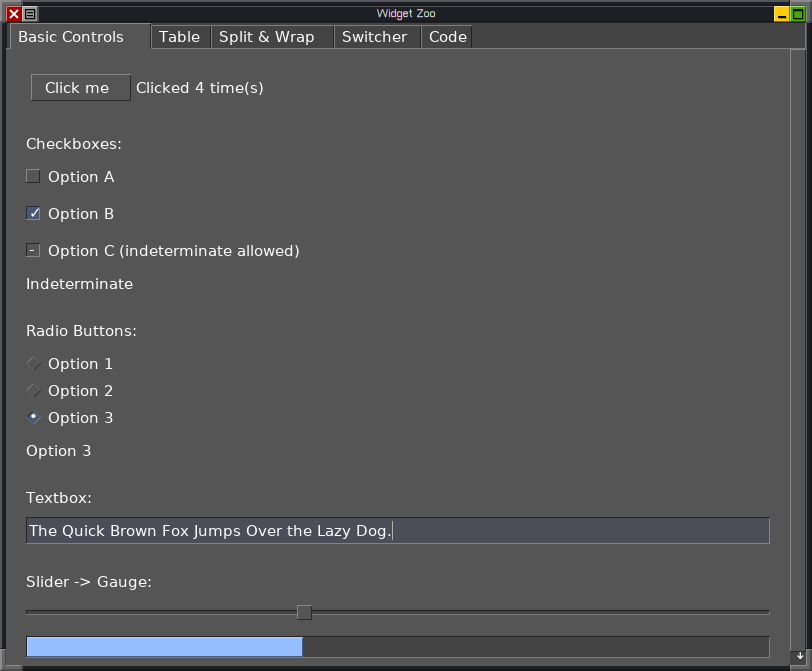
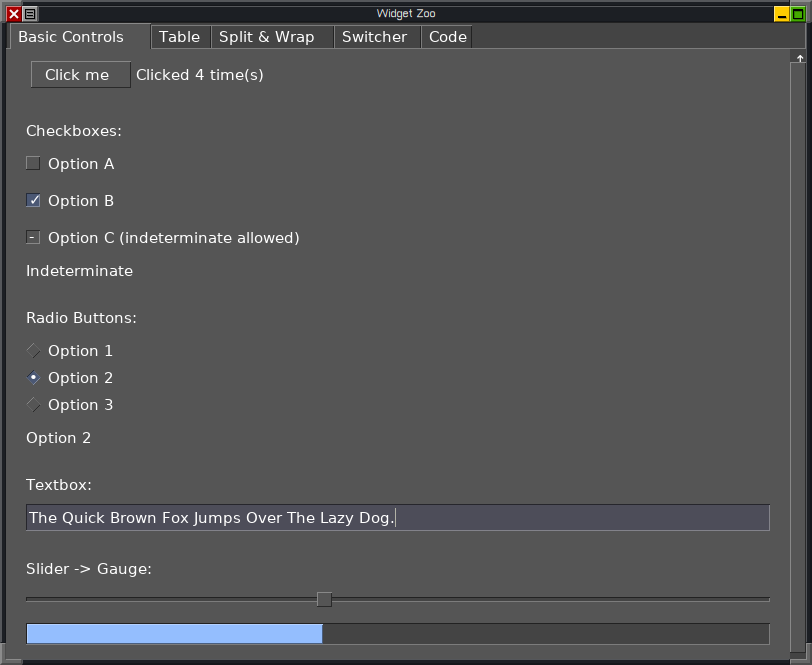
Fixed radiobutton drawing.

diff --git a/hermes/ui_draw.c b/hermes/ui_draw.c
@@ -366,15 +366,15 @@ UIDrawControlDefault(
             /* Background of radio control */
             UIDrawTriangle(
                     painter, 
-                    boxBounds.l, rad_mid_Y, 
-                    rad_mid_X,   boxBounds.t, 
+                    boxBounds.l,     rad_mid_Y, 
+                    rad_mid_X, boxBounds.t, 
                     boxBounds.r, rad_mid_Y, 
                     color
                 );
             UIDrawTriangle(
                     painter, 
-                    boxBounds.r, rad_mid_Y, 
-                    rad_mid_X,   boxBounds.b, 
+                    boxBounds.r,     rad_mid_Y, 
+                    rad_mid_X, boxBounds.b, 
                     boxBounds.l, rad_mid_Y, 
                     color
                 );
@@ -382,30 +382,30 @@ UIDrawControlDefault(
             /* Border of radio control */
             UIDrawLine(
                     painter, 
-                    boxBounds.l, rad_mid_Y,
+                    boxBounds.l, rad_mid_Y, 
                     rad_mid_X,   boxBounds.t,
                     highlight
                 );
             UIDrawLine(
                     painter, 
-                    rad_mid_X,   boxBounds.t, 
-                    boxBounds.r, rad_mid_Y, 
+                    rad_mid_X   + 1,   boxBounds.t + 1, 
+                    boxBounds.r + 1, rad_mid_Y     + 1, 
                     ambient
                 );
             UIDrawLine(
                     painter, 
-                    boxBounds.r, rad_mid_Y, 
-                    rad_mid_X,   boxBounds.b, 
+                    boxBounds.r - 1, rad_mid_Y     + 1, 
+                    rad_mid_X   - 1,   boxBounds.b + 1, 
                     shadow
                 );
             UIDrawLine(
                     painter, 
-                    rad_mid_X,   boxBounds.b, 
+                    rad_mid_X, boxBounds.b, 
                     boxBounds.l, rad_mid_Y, 
                     ambient
                 );
             
-            UIDrawString(painter, UIRectangleAdd(boxBounds, UI_RECT_4(1, 0, 0, 0)),
+            UIDrawString(painter, UIRectangleAdd(boxBounds, UI_RECT_4(1, 0, 2, 0)),
                         checked ? 
                             "\u2022"
                             : " ",

diff --git a/README.md b/README.md
@@ -2,6 +2,8 @@
 
 A lightweight GUI library for X11, based on [miEsMar's fork](https://github.com/miEsMar/luigi) of [luigi](https://github.com/nakst/luigi).
 
+![](img/widget_zoo.png)
+
 ## Building the example
 
 ### Linux
